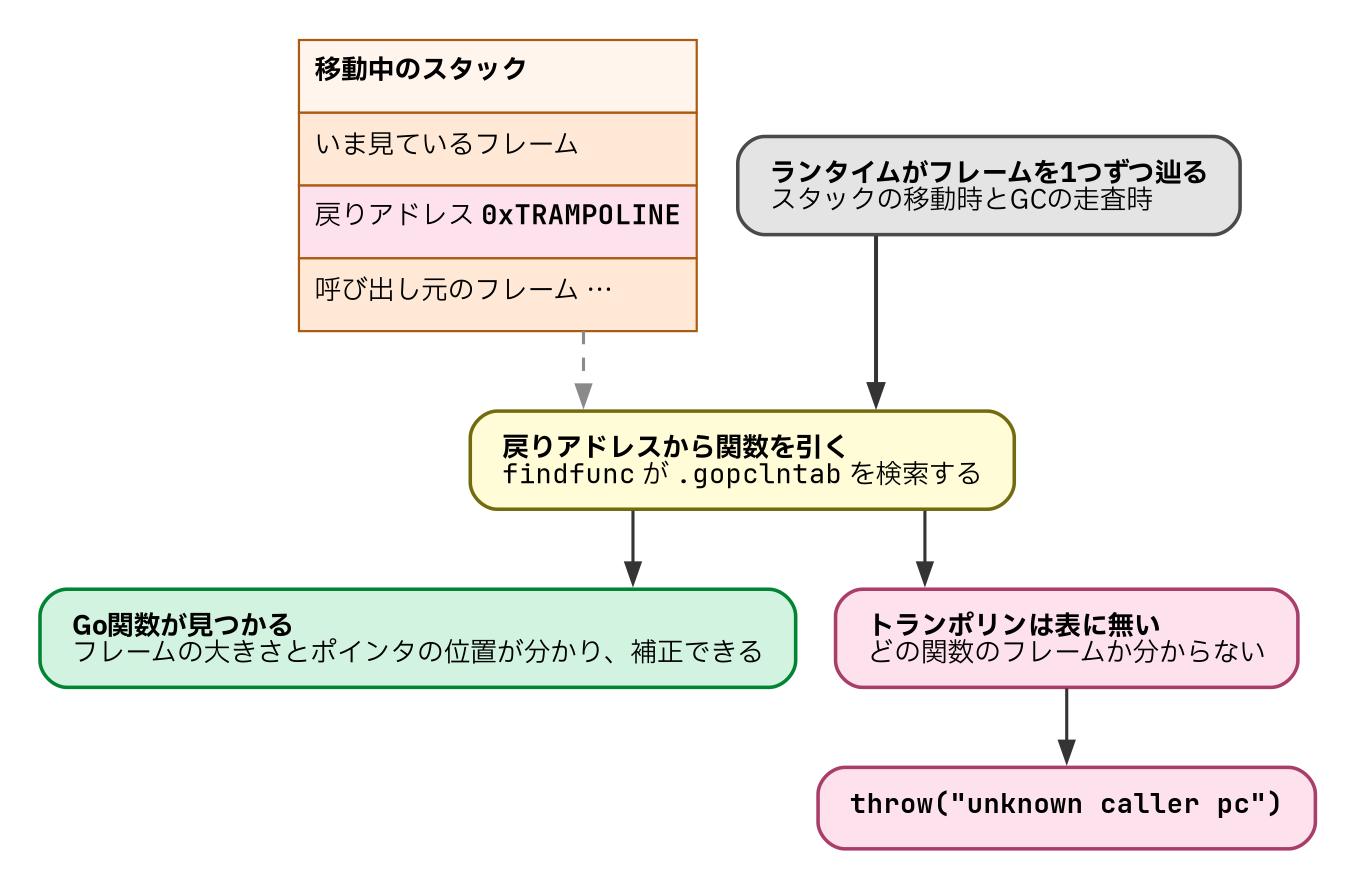
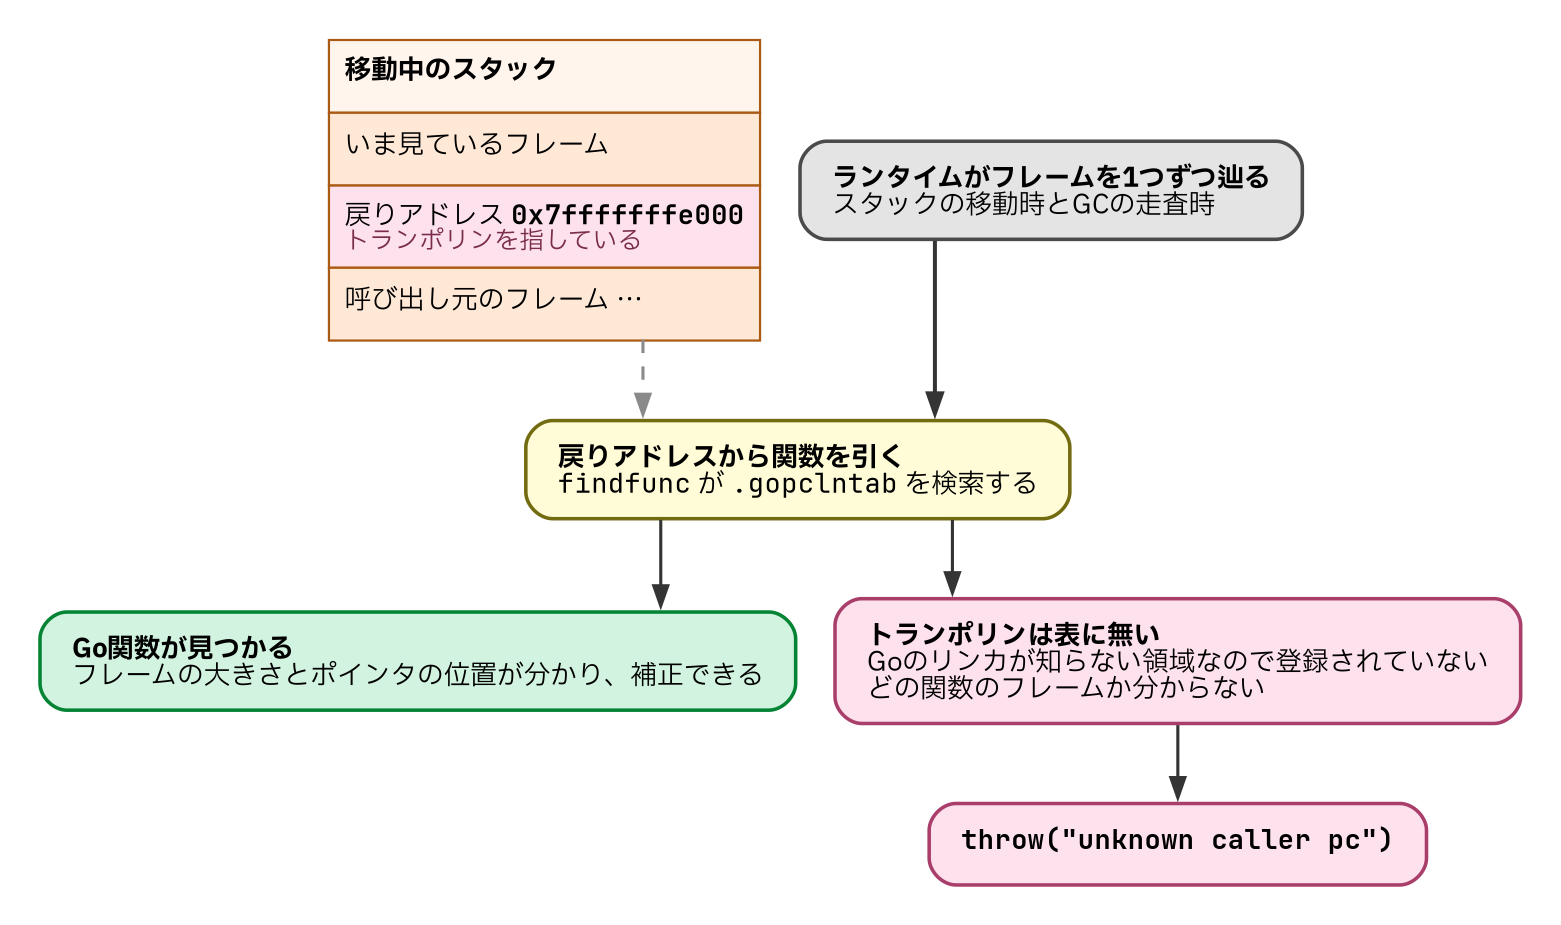
fix(go-ebpf-primer): 図の誤りを直し、本文のキャプションを整合させる
Go Conference 2026の登壇スライドのレビューで見つかった図の誤りは、
本書の図にも同じものが入っていたので揃えて修正した。

- parent-walk: 探索の起点は送信しているgoroutine自身なので、6回の
  検索で辿れるのは自身と親5世代まで。「7段目で打ち切り」は1段
  ずれていた。節見出しも「遡れるのは6段まで」から
  「確かめられるのは6回まで」に直した
- parent-walk: 記録（newproc1のフック）と探索（送信のフック）を
  別のクラスタに分けた。従来は探索の図だけで、どこで親子を
  記録しているのかが図から読み取れなかった
- uretprobe-rewrite: トランポリンが「カーネルが対象プロセスの
  アドレス空間に張った専用ページ」であることを図とキャプションに
  明示した。アドレスも実際の [uprobes] 領域の値にした
- unwind-failure: 表に無い理由（Goのリンカが知らない領域だから
  登録されない）を図とキャプションに書いた
- convention-stack-vs-register: SP+0が戻りアドレスで引数はSP+8から
  だと分かるようにした。従来はSP+0が第1引数で、CALLが積む
  戻りアドレスが抜けていた
- offset-resolution: 「版を割り出す→表を引く」の順に直した。従来は
  表を引いてから版を割り出す順で因果が逆だった。表が「その版以下で
  最新の記録」を返すことも明示した

Changed region(s): [[0.186, 0.0304, 0.9299, 0.5771], [0.0, 0.6074, 0.9919, 0.7897], [0.5889, 0.82, 0.9919, 0.9719]]

diff --git a/books/go-ebpf-primer/55-hurdle4_propagation.md b/books/go-ebpf-primer/55-hurdle4_propagation.md
@@ -186,7 +186,7 @@ done:
 
 関数名の接尾辞に `_return` と付いていますが、これはuretprobeではありません。難所1で見たとおり、`runtime.newproc1` を逆アセンブルして全 `RET` を洗い出し、その一つひとつに通常のuprobeを置いています。入口と出口をペアで使うという当たり前のことをするために、あの回りくどい手順が要ります。難所1の回避策が、ここで使われています。
 
-## 遡れるのは6段まで
+## 確かめられるのは6回まで
 
 記録した親子関係を実際に使うのは、下流へリクエストを送る側のフックです。`net/http.(*Transport).roundTrip` やgRPCクライアントの入口が発火した時点で、いま動いているgoroutineから親の方向へ順にたどります。探しているのは「この処理はどのサーバー受信から始まったのか」で、それが分かればトレースIDを引き継げます。
 
@@ -235,10 +235,10 @@ static __always_inline u64 find_parent_goroutine(go_addr_key_t *current) {
 
 ただし、6という数字そのものは安全性から導かれた値ではありません。上界がありさえすれば検証器は通るので、6は「命令数の重さと、実際のライブラリで必要な深さ」を見て決めた実装上の選択です。その根拠もコメントに残っています。Kafkaクライアントの franz-go が深くネストするから、というものです。
 
-漏れたときに何が起きるかも押さえておきます。トレース情報を持つ祖先までの距離が6段を超えると、`find_parent_goroutine` は0を返します。このとき送信側の処理は計装されないのではなく、`client_trace_parent` が新しいトレースIDを乱数で作ります。つまり下流のリクエストは、上流とつながらない別のトレースとして記録されます。トレースが消える場合より対処が難しく、1本のはずの流れが2本に見えます。
+漏れたときに何が起きるかも押さえておきます。6回の検索で調べられるのは自分自身と親5世代までなので、トレース情報を持つ祖先がそれより遠いと `find_parent_goroutine` は0を返します。このとき送信側の処理は計装されないのではなく、`client_trace_parent` が新しいトレースIDを乱数で作ります。つまり下流のリクエストは、上流とつながらない別のトレースとして記録されます。トレースが消える場合より対処が難しく、1本のはずの流れが2本に見えます。
 
-![親を6段まで遡る](/images/20260820-parent-walk.png)
-*図4: 矢印は子から親への参照をたどる向きを表す。上界が必要なのは検証器の制約だが、6という値は実装上の選択である。打ち切られた送信処理は計装されないのではなく、新しいトレースIDを振られて別のトレースになる。*
+![親子を記録して遡る](/images/20260820-parent-walk.png)
+*図4: 上段は矢印が記録の流れ、下段は子から親への参照をたどる向きを表す。探索の起点は送信しているgoroutine自身なので、6回の検索で調べられるのは自身と親5世代までである。上界が必要なのは検証器の制約だが、6という値は実装上の選択である。打ち切られた送信処理は計装されないのではなく、新しいトレースIDを振られて別のトレースになる。*
 
 ## 送信リクエストへのヘッダ注入
 
@@ -352,7 +352,7 @@ kernel lockdownが有効な環境やSecure Bootの下では、このヘルパー
 
 なお、コンテキスト伝搬はデフォルトでは無効です。`OTEL_EBPF_BPF_CONTEXT_PROPAGATION` のデフォルト値は `disabled` で、`headers`、`tcp`、`all` から明示的に選びます。プロセスのメモリを書き換える、あるいは送信されるバイト列を書き換える機能である以上、有効化は利用者の判断に委ねられています。
 
-難所4でOBIがしているのは、goroutineの生成にフックを置いて親子関係を記録し、送信の直前に6段まで遡ってトレースIDを見つけ、直列化直前のバッファか、ソケットへ出ていくバイト列にそれを書き足すことです。
+難所4でOBIがしているのは、goroutineの生成にフックを置いて親子関係を記録し、送信の直前に自身を含めて6回まで遡ってトレースIDを見つけ、直列化直前のバッファか、ソケットへ出ていくバイト列にそれを書き足すことです。
 
 ![goroutine の親子追跡と traceparent 注入](/images/20260820-context-propagation.png)
-*図7: 実線の矢印は処理の流れ、破線は無効化を表す。goroutine の親子追跡（プロセス内）と traceparent 注入（プロセス間）を示している。追跡は6段まで、注入は2経路あり、カーネルのセキュリティ機構が有効だと経路1だけが落ちる。*
+*図7: 実線の矢印は処理の流れ、破線は無効化を表す。goroutine の親子追跡（プロセス内）と traceparent 注入（プロセス間）を示している。追跡は自身を含めて6回まで、注入は2経路あり、カーネルのセキュリティ機構が有効だと経路1だけが落ちる。*

diff --git a/books/go-ebpf-primer/40-hurdle1_uretprobe.md b/books/go-ebpf-primer/40-hurdle1_uretprobe.md
@@ -15,7 +15,7 @@ title: "難所1　uretprobeが使えない"
 つまりuretprobeは「書き込んだ戻りアドレスは、`RET` の瞬間まで同じ場所に残っている」という前提に立っています。
 
 ![uretprobe による戻りアドレスの書き換え](/images/20260820-uretprobe-rewrite.png)
-*図1: 実線の矢印は制御の流れ、破線は書き換えられた戻りアドレスが導く先を表す。表の中の上下はアドレスの高低で、関数に入った瞬間はSPが戻りアドレスのスロットを指している。uretprobeはそのスロットをトランポリンのアドレスへ書き換える。この方式は「戻りアドレスを置いたスタック上の場所は、その後も動かない」ことを前提にしている。*
+*図1: 実線の矢印は制御の流れ、破線は書き換えられた戻りアドレスが導く先を表す。表の中の上下はアドレスの高低で、関数に入った瞬間はSPが戻りアドレスのスロットを指している。uretprobeはそのスロットを、カーネルが対象プロセスのアドレス空間に張ったトランポリン（`[uprobes]` 領域）のアドレスへ書き換える。この方式は「戻りアドレスを置いたスタック上の場所は、その後も動かない」ことを前提にしている。*
 
 ## Goの可動スタックとの衝突
 
@@ -55,7 +55,7 @@ runtime.morestack()
 下から読むと、スタックが足りなくなって `morestack` に入り、`newstack` が引っ越しの本体である `copystack` を呼び、その中でフレームを辿ろうとして落ちています。1行目の `0x7fffffffe000` がトランポリンのアドレスで、`crypto/x509.(*Certificate).Verify` から戻る先がそこになっていた、という報告です。go1.10のときの報告なので、フレームを辿る部分の関数名は当時の `gentraceback` になっています。これがGoとuretprobeが相容れない理由です（[golang/go#22008](https://github.com/golang/go/issues/22008)）。
 
 ![戻りアドレスから関数を引けないと、スタックを辿れない](/images/20260820-unwind-failure.png)
-*図3: 実線の矢印は処理の流れ、破線はスタックから読み取る値を表す。ランタイムは戻りアドレスを手がかりに「どの関数のフレームか」を引く。トランポリンのアドレスは表に無いので、そこで辿れなくなる。*
+*図3: 実線の矢印は処理の流れ、破線はスタックから読み取る値を表す。ランタイムは戻りアドレスを手がかりに「どの関数のフレームか」を `.gopclntab` から引く。トランポリンはGoのリンカが知らない領域なのでこの表に登録されておらず、そこで辿れなくなる。*
 
 ## 動くスタックの実測
 

diff --git a/books/go-ebpf-primer/50-hurdle3_offsets.md b/books/go-ebpf-primer/50-hurdle3_offsets.md
@@ -269,6 +269,6 @@ var goAutoSDKActivationModules = [...]activationModule{
 `go.sum` に並んでいるのと同じハッシュです。バージョン文字列だけでなく中身の同一性まで確認したうえで、そのバージョンに固有の処理を有効にしています。
 
 ![オフセットを2つの情報源から集める](/images/20260820-offset-resolution.png)
-*図3: 矢印は処理の流れで、上から下へ進む。DWARFから読めたフィールドはそのまま使い、読めなかったフィールドだけを `offsets.json` で補う。両者は合流して1つのオフセット表になる。表から補う分だけが、バイナリのバージョンに依存する。*
+*図3: 矢印は処理の流れで、上から下へ進む。DWARFから読めたフィールドはそのまま使い、読めなかったフィールドだけを `offsets.json` で補う。表を引くにはまずビルド情報から版を割り出す必要があり、表はその版以下で最新の記録を返す。両者は合流して1つのオフセット表になる。表から補う分だけが、バイナリのバージョンに依存する。*
 
 難所3への対処は、壊れやすさをなくすことではなく、壊れやすさを仕組みで吸収し続けることです。フィールドの位置は、バイナリ自身に書いてある分はDWARFから読み、書いていない分だけを自動更新される表から補う。OBIはこの分担で、Goとライブラリの変化に追いつき続けています。

diff --git a/books/go-ebpf-primer/20-function_call.md b/books/go-ebpf-primer/20-function_call.md
@@ -104,7 +104,7 @@ $ go tool objdump -s 'main\.double$' demo
 プラットフォームには標準の呼び出し規約があり、Linuxのamd64ならCのプログラムはみなそれに従います。外から観測する道具も、当然その標準を前提に作られています。Goがこの標準に従っていないことが、難所2の主題になります。
 
 ![スタック渡しとレジスタ渡し](/images/20260820-convention-stack-vs-register.png)
-*図3: 同じ `f(a, b, c)` の呼び出しでも、規約によって引数の置き場所が変わる。外から引数を読むには、どちらの規約か、どの位置かを知っている必要がある。*
+*図3: 同じ `f(a, b, c)` の呼び出しでも、規約によって引数の置き場所が変わる。スタック渡しでは `CALL` が積んだ戻りアドレスの先、`SP+8` から引数が並ぶ。レジスタ渡しではスタックに引数が無く、どのレジスタに何番目の引数が入るかという対応を知らないと読めない。*
 
 ## インライン展開
 
